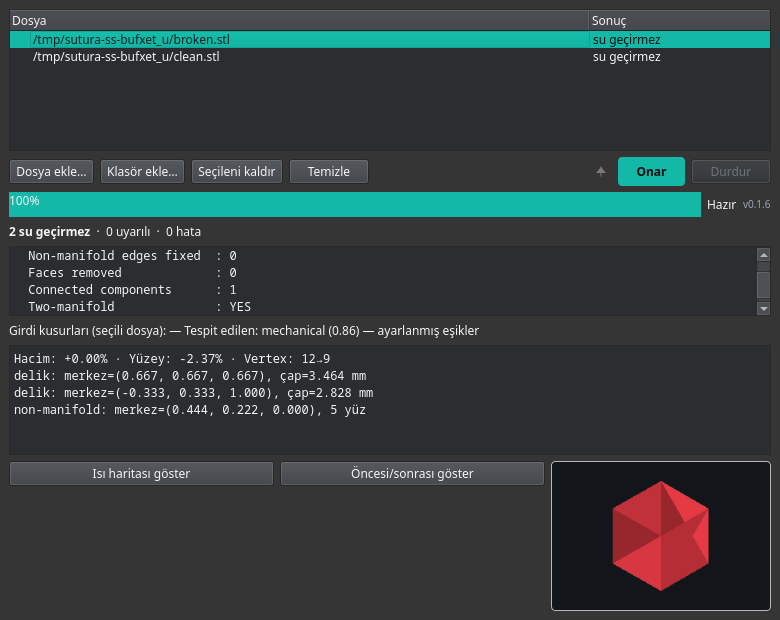
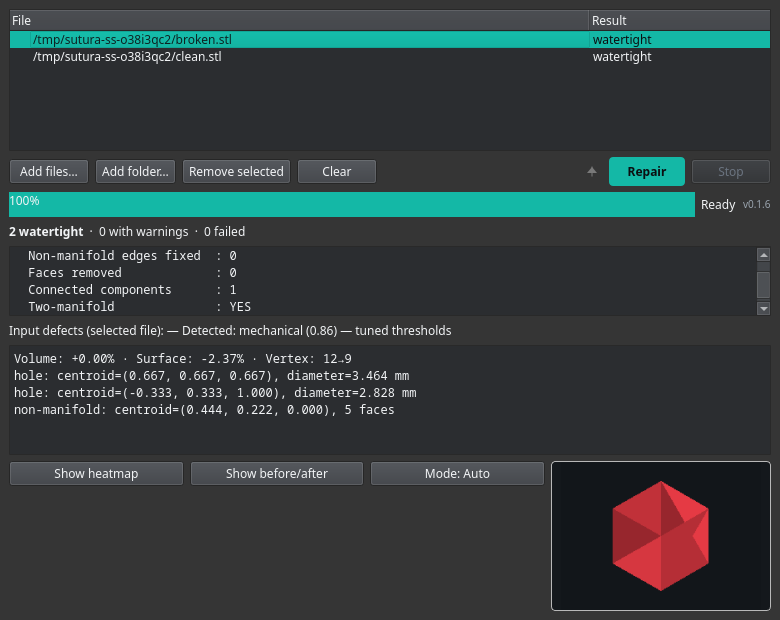
Add Repair Mode picker to the GUI (Stage B)

diff --git a/sutura/gui.py b/sutura/gui.py
@@ -19,7 +19,7 @@ from PySide6.QtWidgets import (
     QApplication, QMainWindow, QWidget, QVBoxLayout, QHBoxLayout,
     QTreeWidget, QTreeWidgetItem, QPushButton, QFileDialog,
     QProgressBar, QPlainTextEdit, QLabel, QAbstractItemView, QToolButton,
-    QMessageBox, QDialog)
+    QMessageBox, QDialog, QSlider)
 
 # the updater/repair modules live beside this file in both the repo and the
 # installed layout, so put this directory on the path and import them flat.
@@ -102,6 +102,25 @@ STRINGS = {
         'before_after_title': 'Before/after — %s',
         'ba_original': 'Original',
         'ba_repaired': 'Repaired',
+        'mode_btn': 'Mode: %s',
+        'mode_dialog_title': 'Repair mode',
+        'mode_name_low': 'Low',
+        'mode_name_medium': 'Medium',
+        'mode_name_auto': 'Auto',
+        'mode_name_aggressive': 'Aggressive',
+        'mode_name_extreme': 'Extreme',
+        'mode_desc_low': ('Low — most conservative: closes only small holes, '
+                          'minimal debris removal.'),
+        'mode_desc_medium': 'Medium — the historical default thresholds.',
+        'mode_desc_auto': ('Auto — the mesh classifier + confidence gate pick '
+                           'per-type thresholds (default).'),
+        'mode_desc_aggressive': ('Aggressive — more debris removed, larger '
+                                 'holes closed.'),
+        'mode_desc_extreme': ('Extreme — most aggressive; can delete a whole '
+                              'object whose connected part has fewer than 20 '
+                              'faces.'),
+        'mode_ok': 'OK',
+        'mode_cancel': 'Cancel',
     },
     'tr': {
         'app_title': 'Sutura',
@@ -161,6 +180,24 @@ STRINGS = {
         'before_after_title': 'Öncesi/Sonrası — %s',
         'ba_original': 'Orijinal',
         'ba_repaired': 'Onarılmış',
+        'mode_btn': 'Mod: %s',
+        'mode_dialog_title': 'Onarım modu',
+        'mode_name_low': 'Düşük',
+        'mode_name_medium': 'Orta',
+        'mode_name_auto': 'Otomatik',
+        'mode_name_aggressive': 'Agresif',
+        'mode_name_extreme': 'Aşırı',
+        'mode_desc_low': ('Düşük — en muhafazakâr: yalnızca küçük delikleri '
+                          'kapatır, en az moloz temizliği.'),
+        'mode_desc_medium': 'Orta — tarihsel varsayılan eşikler.',
+        'mode_desc_auto': ('Otomatik — mesh sınıflandırıcı + güven eşiği '
+                           'türüne göre eşikleri seçer (varsayılan).'),
+        'mode_desc_aggressive': ('Agresif — daha fazla moloz temizlenir, daha '
+                                 'büyük delikler kapatılır.'),
+        'mode_desc_extreme': ('Aşırı — en agresif; bağlantılı parçası 20 yüzden '
+                              'az olan tüm nesneyi silebilir.'),
+        'mode_ok': 'Tamam',
+        'mode_cancel': 'İptal',
     },
 }
 
@@ -369,9 +406,10 @@ class RepairWorker(QThread):
     progress = Signal(int, int)          # current, total
     all_done = Signal(bool)              # cancelled
 
-    def __init__(self, files, parent=None):
+    def __init__(self, files, mode='auto', parent=None):
         super().__init__(parent)
         self._files = list(files)
+        self._mode = mode
         self._cancelled = False
         self._proc = None
 
@@ -401,7 +439,7 @@ class RepairWorker(QThread):
                              'and no repair.py next to the GUI'}
         try:
             self._proc = subprocess.Popen(
-                [*SUTURA_CMD, path],
+                [*SUTURA_CMD, '--mode', self._mode, path],
                 stdout=subprocess.PIPE, stderr=subprocess.PIPE, text=True)
         except OSError as e:
             # e.g. FileNotFoundError - never crash the worker thread silently.
@@ -529,6 +567,63 @@ class _ClickableLabel(QLabel):
         super().mousePressEvent(event)
 
 
+class RepairModeDialog(QDialog):
+    """Modal picker for the batch repair mode.
+
+    A five-step horizontal slider (Low-Medium-Auto-Aggressive-Extreme, left to
+    right) with a live description label that updates as the slider moves, and
+    OK/Cancel buttons. The mode is a batch-wide setting (one value for the
+    whole run), so the dialog only hands back the chosen value.
+    """
+
+    MODES = ('low', 'medium', 'auto', 'aggressive', 'extreme')
+
+    def __init__(self, current='auto', parent=None):
+        super().__init__(parent)
+        self.setWindowTitle(_t('mode_dialog_title'))
+        self.setModal(True)
+        lay = QVBoxLayout(self)
+
+        self.slider = QSlider(Qt.Horizontal)
+        self.slider.setRange(0, len(self.MODES) - 1)
+        self.slider.setValue(self.MODES.index(current))
+        self.slider.setTickPosition(QSlider.TicksBelow)
+        self.slider.setTickInterval(1)
+        self.slider.setMinimumWidth(360)
+        lay.addWidget(self.slider)
+
+        ticks = QHBoxLayout()
+        for mode in self.MODES:
+            lab = QLabel(_t('mode_name_' + mode))
+            lab.setAlignment(Qt.AlignCenter)
+            ticks.addWidget(lab, 1)
+        lay.addLayout(ticks)
+
+        self.desc = QLabel()
+        self.desc.setWordWrap(True)
+        lay.addWidget(self.desc)
+
+        btns = QHBoxLayout()
+        btns.addStretch(1)
+        ok = QPushButton(_t('mode_ok'))
+        cancel = QPushButton(_t('mode_cancel'))
+        ok.setDefault(True)
+        btns.addWidget(ok)
+        btns.addWidget(cancel)
+        lay.addLayout(btns)
+
+        ok.clicked.connect(self.accept)
+        cancel.clicked.connect(self.reject)
+        self.slider.valueChanged.connect(self._update_desc)
+        self._update_desc(self.slider.value())
+
+    def _update_desc(self, idx):
+        self.desc.setText(_t('mode_desc_' + self.MODES[idx]))
+
+    def selected_mode(self):
+        return self.MODES[self.slider.value()]
+
+
 class MainWindow(QMainWindow):
     MESH_EXTS = ('.stl', '.3mf')
 
@@ -555,6 +650,7 @@ class MainWindow(QMainWindow):
         self._heatmap_zoom = None
         self.before_after_worker = None
         self._before_after_zoom = None
+        self._repair_mode = 'auto'    # batch-wide repair mode (not per file)
 
         self._build_ui()
         self._apply_accent()
@@ -646,6 +742,10 @@ class MainWindow(QMainWindow):
         self.btn_before_after = QPushButton(_t('show_before_after'))
         self.btn_before_after.setEnabled(False)
         heat_row.addWidget(self.btn_before_after, 0, Qt.AlignTop)
+        # batch-wide repair mode picker (low/medium/auto/aggressive/extreme)
+        self.btn_mode = QPushButton(
+            _t('mode_btn', _t('mode_name_' + self._repair_mode)))
+        heat_row.addWidget(self.btn_mode, 0, Qt.AlignTop)
         self.heatmap_thumb = _ClickableLabel(_t('heatmap_failed'))
         self.heatmap_thumb.setAlignment(Qt.AlignCenter)
         self.heatmap_thumb.setFixedSize(220, 150)
@@ -667,6 +767,7 @@ class MainWindow(QMainWindow):
         self.btn_show_heatmap.clicked.connect(self._on_show_heatmap)
         self.heatmap_thumb.clicked.connect(self._on_heatmap_thumb_clicked)
         self.btn_before_after.clicked.connect(self._on_show_before_after)
+        self.btn_mode.clicked.connect(self._on_choose_repair_mode)
 
         self.btn_repair.setEnabled(False)
         self.btn_stop.setEnabled(False)
@@ -903,7 +1004,7 @@ class MainWindow(QMainWindow):
         self.status.setText(_t('repairing'))
         self.log.clear()
 
-        self.worker = RepairWorker(self.files, self)
+        self.worker = RepairWorker(self.files, self._repair_mode, self)
         self.worker.file_done.connect(self._on_file_done)
         self.worker.progress.connect(self._on_progress)
         self.worker.all_done.connect(self._on_all_done)
@@ -913,6 +1014,14 @@ class MainWindow(QMainWindow):
         if self.worker is not None:
             self.worker.cancel()
             self.btn_stop.setEnabled(False)
+
+    def _on_choose_repair_mode(self):
+        """Open the repair-mode dialog; apply the chosen mode to the next batch."""
+        dlg = RepairModeDialog(self._repair_mode, self)
+        if dlg.exec() == QDialog.Accepted:
+            self._repair_mode = dlg.selected_mode()
+            self.btn_mode.setText(
+                _t('mode_btn', _t('mode_name_' + self._repair_mode)))
 
     def _on_file_done(self, path, summary, report, data):
         item = self._item_by_path.get(path)

diff --git a/scripts/generate_screenshots.py b/scripts/generate_screenshots.py
@@ -3,7 +3,9 @@
 
 Runs the GUI offscreen, drives a real batch repair, and renders the key
 moments to PNGs under assets/. This keeps the screenshots in sync with the
-actual UI whenever a visible behaviour changes.
+actual UI whenever a visible behaviour changes. The locale is forced to
+English regardless of the system locale, so the screenshots are always the
+English variant (standing rule).
 
 Run from the repo root with a Python that has the GUI dependencies
 (PySide6-Essentials + trimesh). The repo's own sutura/gui.py is loaded, so
@@ -26,6 +28,11 @@ import tempfile
 
 from PySide6.QtCore import QTimer
 from PySide6.QtWidgets import QApplication
+
+# The README screenshots are always the English UI, whatever the system
+# locale. Qt's QLocale.system() reads the environment at app startup, so set
+# LANG before anything creates a QApplication.
+os.environ['LANG'] = 'en_US.UTF-8'
 
 REPO = os.path.dirname(os.path.dirname(os.path.abspath(__file__)))
 GUI_PY = os.path.join(REPO, 'sutura', 'gui.py')

diff --git a/AGENTS.md b/AGENTS.md
@@ -11,7 +11,7 @@ Sutura: two-stage STL/3MF mesh repair for 3D printing. Stage 1 = PyMeshLab
 - `install.sh` creates both virtualenvs (`venv` with PyMeshLab from `requirements.txt`, `venv311` with manifold3d from `requirements-311.txt`), copies the source into `~/.local/share/sutura/`, and installs `~/.local/bin/sutura`. Re-running is safe. It bails if no `python3.11` is available (manifold3d ships wheels only up to Python 3.13).
 - **AppImage build (alternative distribution):** `scripts/build_appimage.sh` bundles two relocatable python-build-standalone runtimes (Python 3.14 -> `usr/lib/sutura/venv`, Python 3.11 -> `usr/lib/sutura/venv311`) plus the app modules and builds `dist/Sutura-x86_64.AppImage` with appimagetool (which carries its own `mksquashfs`, so no system package needed). The AppRun dispatch exports `SUTURA_DIR`/`SUTURA` so `repair.py` finds its venv311/bridge and `gui.py` finds its CLI without code changes. **AppImage mode detection:** `updater.py` checks the `APPIMAGE` env var (set by the AppImage runtime); in that mode the GUI skips the first-run ask / background checks and the update button shows a "download from releases" message instead of self-updating (self-update cannot write to a read-only squashfs). `updater.py`'s VERSION fallback reads `repair.py` beside itself before the host install dir so the bundled copy is authoritative.
 - Multi-object 3MF files are repaired object-by-object in memory (numpy arrays), preserving the original archive structure; per-object stage 2 is deliberately skipped (see the `TODO(stage2)` in `repair_3mf`). Single-mesh files round-trip through OBJ for stage 2.
-- The GUI (`sutura/gui.py`, tkinter) just shells out to the installed `sutura` CLI and parses the last stdout JSON line.
+- The GUI (`sutura/gui.py`, PySide6) just shells out to the installed `sutura` CLI and parses the last stdout JSON line. Its **Repair Mode** picker (a small "Mode: Auto" button next to the heatmap/before-after buttons) opens `RepairModeDialog`: a five-step horizontal QSlider (low/medium/auto/aggressive/extreme) with a live localized description and OK/Cancel. The mode is stored **batch-wide** on the MainWindow (`self._repair_mode`, default `auto`), not per file, and `RepairWorker` passes it to the CLI as `--mode <mode>`; the chosen mode must therefore be verified in the JSON `repair_mode` of the batch results, not in per-file state.
 - Result classification lives in `sutura/classification.py` (stdlib-only, no numpy/pymeshlab): `classify()` returns `(category, issues, summary_key)` and both the CLI (`repair.py`) and the GUI (`gui.py`) import it so they never diverge. "Watertight" is only claimed when stage 2 actually ran and returned `ok`; a stage-1-closed mesh with stage 2 skipped/errored/never-run (e.g. macOS in-process fallback unavailable) is a warning. CLI `--human`/JSON label issues via this module (English, not localized); the GUI localizes the same codes through its EN/TR dictionary.
 - `sutura/defects.py` (stdlib+numpy only) detects the input mesh's holes and non-manifold regions from plain `verts`/`tris` arrays; `repair.py` calls `detect()` on the input and stores it in the report's `defects` key (always in JSON; `--human` only with `--defects`). The GUI renders the selected file's defects in a panel below the log. Keep it free of pymeshlab/trimesh so it stays importable anywhere. `detect(..., with_indices=True)` additionally returns each defect's `verts_idx`/`faces_idx` index lists for the heatmap; the CLI uses the default (False) so its JSON contract is unchanged.
 - `sutura/heatmap.py` (numpy + Qt QImage/QPainter only, no pymeshlab) is the defect heatmap rasterizer: it projects the mesh with an auto-fit orthographic isometric camera, depth-sorts faces (painter's algorithm) and fills each face red when it touches a defect vertex, grey otherwise (~250k tris/s on CPU). It is deliberately a **CPU rasterizer, not OpenGL**: offscreen GL draw calls (`glDrawArrays`/`glDrawElements`) segfault on headless systems (verified on an NVIDIA box without a display) and can be unavailable in the AppImage/macOS CI. Do not replace it with GL without re-checking that. `render(...)` also accepts an optional `frame=(center, scale)` from `shared_frame(verts_list, w, h, pad)` so several meshes can be rendered with the IDENTICAL camera (used by the before/after comparison).
@@ -21,7 +21,7 @@ Sutura: two-stage STL/3MF mesh repair for 3D printing. Stage 1 = PyMeshLab
 
 ## Tests (no framework — plain scripts, need the venvs installed)
 
-- **Repair modes (`repair.MODE_PARAMS`, CLI `--mode`).** Five-step Stage 1 aggressiveness ladder: `low {8,200}`, `medium {8,1000}` (historical default thresholds), `auto` (the default; runs classify_mesh + tuning gate exactly as before — mode-neutral for all existing tests/CI), `aggressive {12,3000}`, `extreme {20,10000}`. Fixed modes (not `auto`) bypass the classifier for parameter selection (it still runs, cheap, so detected_type/confidence stay informative) and set `tuning_applied=False`. The chosen mode lands in the report as `repair_mode` (JSON), a `Mode:` line (`--human`), and per-object for multi-object 3MF. `mincomponentsize` stays >= 8 for every mode (never lower: CI regression risk). Note: `extreme` with mincomponentsize=20 can delete a whole object whose connected part has < 20 faces (e.g. the 13-face broken.stl smoke cube) — that is the value's intended-but-aggressive behaviour.
+- **Repair modes (`repair.MODE_PARAMS`, CLI `--mode`, GUI picker).** Five-step Stage 1 aggressiveness ladder: `low {8,200}`, `medium {8,1000}` (historical default thresholds), `auto` (the default; runs classify_mesh + tuning gate exactly as before — mode-neutral for all existing tests/CI), `aggressive {12,3000}`, `extreme {20,10000}`. Fixed modes (not `auto`) bypass the classifier for parameter selection (it still runs, cheap, so detected_type/confidence stay informative) and set `tuning_applied=False`. The chosen mode lands in the report as `repair_mode` (JSON), a `Mode:` line (`--human`), and per-object for multi-object 3MF. `mincomponentsize` stays >= 8 for every mode (never lower: CI regression risk). Note: `extreme` with mincomponentsize=20 can delete a whole object whose connected part has < 20 faces (e.g. the 13-face broken.stl smoke cube) — that is the value's intended-but-aggressive behaviour. The GUI exposes the same five modes via its batch-wide Repair Mode button.
 - Smoke: `python3 tests/make_broken_stl.py /tmp/broken.stl && sutura /tmp/broken.stl --human` — generates a cube with missing face, inverted winding, duplicate/degenerate/self-intersecting triangles.
 - `python3 tests/make_layered_multiobject_3mf.py --check` — layered/folded-vertex 3MF regression.
 - `python3 tests/test_adversarial.py` — malformed-input rejection; it expects the **installed** CLI at `~/.local/bin/sutura`, not the repo copy.
@@ -46,6 +46,10 @@ Sutura: two-stage STL/3MF mesh repair for 3D printing. Stage 1 = PyMeshLab
 - `README.tr.md` is the Turkish translation of `README.md` and must be kept in
   sync with it: any user-visible addition/change to `README.md` also updates
   `README.tr.md` in the same session, without being asked.
+- The README GUI screenshots (`assets/*.png`) are regenerated with
+  `scripts/generate_screenshots.py` whenever a visible behaviour changes. The
+  generator forces the English locale (`LANG=en_US.UTF-8`) regardless of the
+  system locale — screenshots are always the English UI (standing rule).
 
 ## Cleanup discipline
 

diff --git a/README.tr.md b/README.tr.md
@@ -73,7 +73,7 @@ söyler.
 | STL onarımı (iki aşamalı) | ~%95 | VCG + manifold3d hattı, bozuk/düşmanca/işkence girdilerine karşı CI ile sağlamlaştırılmıştır. %100 değil: patolojik kendisiyle-kesişimler aşama 2'nin yeniden kurmasında yeniden şekillenebilir ve çok büyük delikler akıllı bir yeniden yapılandırma yerine düz bir yamayla kapatılır. |
 | 3MF çok nesneli | ~%90 | Her nesne bellekte bağımsız onarılır ve geri yazılır, böylece hiçbir nesne kaybolmaz. Bilinen sınırlar: nesne başına aşama 2 bilinçli olarak atlanır, bayt bayt özdeş nesneler tekilleştirilir ve katmanlı/yinelenen köşeli bir 3MF, dilimleyicilerin genellikle otomatik iyileştirdiği birkaç milimetre-altı çatlak tutabilir. |
 | Kusur tespiti (delik / non-manifold) | ~%90 | Stdlib+numpy, tek doğruluk kaynağı, temiz ve kırık küplerde birim testlerle doğrulanır. %100 değil: yalnızca girdi kusurlarını bildirir; binlerce mikro çatlaklı bir mesh'te kusur başına liste büyür ve CLI JSON'u, yalnızca çizim amaçlı dizin verisini içermez. |
-| GUI | ~%85 | Yerel Qt batch onarımı, sürükle & bırak, kusur paneli, ısı haritası, durum/sürüm satırı, i18n (EN/TR). Eksikler: CLI'yı ayrı bir süreç olarak çağırır (süreç içi ilerleme yok), yerel KDE dosya diyaloğu yalnızca sistem Qt'si PySide6'nınkiyle eşleştiğinde çalışır ve macOS Finder entegrasyonu yoktur. |
+| GUI | ~%85 | Yerel Qt batch onarımı, sürükle & bırak, kusur paneli, ısı haritası, öncesi/sonrası karşılaştırma, onarım modu seçici, durum/sürüm satırı, i18n (EN/TR). Eksikler: CLI'yı ayrı bir süreç olarak çağırır (süreç içi ilerleme yok), yerel KDE dosya diyaloğu yalnızca sistem Qt'si PySide6'nınkiyle eşleştiğinde çalışır ve macOS Finder entegrasyonu yoktur. |
 | CLI | ~%90 | Sabit bayraklar (`-o`, `--human`, `--defects`, `--diff`, `--version`), JSON raporları, batch özeti, çıkış kodları. `--human` raporu yalnızca İngilizcedir (yerelleştirme yalnızca GUI'yi ilgilendirir). |
 | Batch işleme | ~%90 | Dosya başına sonuçları ve bir özeti olan çok dosyalı onarım. Sert durdurma (Ctrl-C / Durdur) desteklenir; batch kaldığı yerden sürdürülemez ve başarısız bir dosya diğerlerini durdurmaz. |
 | Kusur ısı haritası | ~%80 | İsteğe bağlı CPU rasterizer (GL yok), alt süreçte çalışır, GUI'yi asla çökertmez. Bilinçli olarak yalnızca CPU: ekransız sistemlerde ekran dışı OpenGL çağrıları segfault verir, bu yüzden tam GL gölgeleme yerine üç noktalı ışık modeliyle düz gölgelenir ve çok nesneli 3MF'de yalnızca ilk nesne çizilir. |
@@ -234,7 +234,8 @@ birebir eşikleri kullanır:
 | `extreme` | 20 | 10000 | en agresif; not: tek bağlı parçası 20'den az yüzlü bir nesnenin tamamı silinebilir |
 
 Seçilen mod her zaman raporlanır (`repair_mode` JSON'da, `Mode:` `--human`da;
-çok nesneli 3MF'de nesne başına).
+çok nesneli 3MF'de nesne başına). GUI, aynı beş modu **Mod** düğmesi üzerinden
+sunar (batch geneli; aşağıdaki GUI bölümüne bakın).
 
 Birden çok dosyada her girdi sırayla onarılır ve bir özet yazdırılır (`N
 su geçirmez, M uyarılı, K başarısız`), oluşan uyarı/hata türlerinin dökümüyle
@@ -317,6 +318,15 @@ arasında geçiş yapan bir düğme içeren bir diyalog açar (ısı haritasıyl
 CPU-çizici kısıtı yüzünden bilinçli olarak etkileşimli bir 3D kaydırıcı
 değil, statik bir tıkla-geçiştir). Alt süreçte çalışır ve isteğe bağlıdır,
 bu yüzden bir batch'i asla yavaşlatmaz.
+
+**Onarım modu.** Isı haritası/öncesi-sonrası düğmelerinin yanındaki
+**Mod: Otomatik** düğmesi, beş kademeli bir kaydırıcı içeren küçük bir diyalog
+açar — **Düşük / Orta / Otomatik / Agresif / Aşırı** — kaydırıcı hareket
+ettikçe canlı güncellenen tek cümlelik bir açıklamayla (Aşırı kademesi,
+20'den az yüzlü nesneleri silebileceği konusunda dürüstçe uyarır). Mod,
+**batch geneli** bir ayardır: sonraki Onar çalışmasında tüm dosyalara uygulanır
+(dosya başına değil) ve CLI'ya `--mode <mod>` olarak iletilir (CLI bayrağıyla
+aynı beş değer, varsayılan `auto`). Güncel mod her zaman düğmede görünür.
 
 Dolphin: bir STL/3MF dosyasına sağ tık -> **Sutura ile Onar**. Tek seçimde GUI
 dosya yüklü olarak açılır; çoklu seçimde her dosya arka planda onarılır ve bir

diff --git a/README.md b/README.md
@@ -71,7 +71,7 @@ Sutura and where you should still double-check the output.
 | STL repair (two-stage) | ~95% | The VCG + manifold3d pipeline is CI-hardened against malformed/adversarial/torture inputs. Not 100%: pathological self-intersections can be reshaped by the stage-2 rebuild, and very large holes are closed with a flat patch, not a smart reconstruction. |
 | 3MF multi-object | ~90% | Every object is repaired independently in memory and written back, so no object is lost. Known limits: per-object stage 2 is deliberately skipped, byte-identical objects are deduplicated, and a layered/duplicated-vertex 3MF can keep a few sub-millimetre cracks that slicers usually auto-heal. |
 | Defect detection (holes / non-manifold) | ~90% | Stdlib+numpy, single source of truth, unit-tested on clean and broken cubes. Not 100%: it reports input defects only; on a mesh with thousands of micro-cracks the per-defect list gets large, and the CLI JSON omits index data (rendering-only). |
-| GUI | ~85% | Native Qt batch repair, drag & drop, defect panel, heatmap, status/version row, i18n (EN/TR). Gaps: it shells out to the CLI (no in-process progress), the native KDE file dialog only works when the system Qt matches PySide6's, and there is no macOS Finder integration. |
+| GUI | ~85% | Native Qt batch repair, drag & drop, defect panel, heatmap, before/after comparison, repair-mode picker, status/version row, i18n (EN/TR). Gaps: it shells out to the CLI (no in-process progress), the native KDE file dialog only works when the system Qt matches PySide6's, and there is no macOS Finder integration. |
 | CLI | ~90% | Stable flags (`-o`, `--human`, `--defects`, `--diff`, `--version`), JSON reports, batch summary, exit codes. The `--human` report is English-only (localization is a GUI concern). |
 | Batch processing | ~90% | Multi-file repair with per-file results and a summary. Hard stops (Ctrl-C / Stop) are handled; the batch summary is not resumable and a failed file does not halt the rest. |
 | Defect heatmap | ~80% | On-demand CPU rasterizer (no GL), runs in a subprocess, never crashes the GUI. Deliberately CPU-only: offscreen OpenGL segfaults on headless systems, so it is flat-shaded with a three-point lighting model rather than full GL shading, and for multi-object 3MF it renders only the first object. |
@@ -229,7 +229,8 @@ bypass the classifier and use exact thresholds:
 | `extreme` | 20 | 10000 | most aggressive; note this can delete an object whose whole connected part has fewer than 20 faces |
 
 The chosen mode is always reported (`repair_mode` in JSON, `Mode:` in
-`--human`; per object for multi-object 3MF).
+`--human`; per object for multi-object 3MF). The GUI exposes the same five
+modes through its **Mode** button (batch-wide, see the GUI section below).
 
 With multiple files, every input is repaired in turn and a summary is
 printed (`N watertight, M with warnings, K failed`), including a breakdown of
@@ -312,6 +313,15 @@ opens a dialog with a single image area and a toggle button that flips
 between **Original** and **Repaired** (a static click-toggle, deliberately not
 an interactive 3D slider — same CPU-renderer constraint as the heatmap). It
 runs in a subprocess and is on-demand, so it never slows a batch.
+
+**Repair mode.** A **Mode: Auto** button next to the heatmap/before-after
+buttons opens a small dialog with a five-step slider —
+**Low / Medium / Auto / Aggressive / Extreme** — and a one-line description
+that updates live as the slider moves (the Extreme step warns it can delete
+objects smaller than 20 faces). The mode is a **batch-wide** setting: it
+applies to the next Repair run for every file, not per file, and is passed to
+the CLI as `--mode <mode>` (the same five values as the CLI flag, default
+`auto`). The current mode is always shown on the button.
 
 Dolphin: right-click an STL/3MF file -> **Repair with Sutura**. With a single
 selection the GUI opens with the file loaded; with multiple selections each

diff --git a/CHANGELOG.md b/CHANGELOG.md
@@ -19,6 +19,15 @@ All notable changes to this project are documented here.
   `mincomponentsize` stays >= 8 in every mode (never lower, CI regression
   risk); note that `extreme` (mincomponentsize=20) will delete a whole object
   whose connected part has fewer than 20 faces — intended but aggressive.
+- **Repair mode picker (GUI).** A small **Mode: Auto** button next to the
+  heatmap/before-after buttons opens `RepairModeDialog`: a five-step
+  horizontal slider (Low–Medium–Auto–Aggressive–Extreme) with a live,
+  localized one-line description per step (the Extreme step honestly warns it
+  can delete objects smaller than 20 faces) and OK/Cancel. The mode is stored
+  **batch-wide** on the main window (`self._repair_mode`, default `auto`), not
+  per file, and `RepairWorker` passes it to the CLI as `--mode <mode>`, so the
+  chosen mode appears in the JSON `repair_mode` of every report in the batch.
+  Fully localized EN/TR. Screenshots regenerated (English UI).
 
 ### Changed
 
